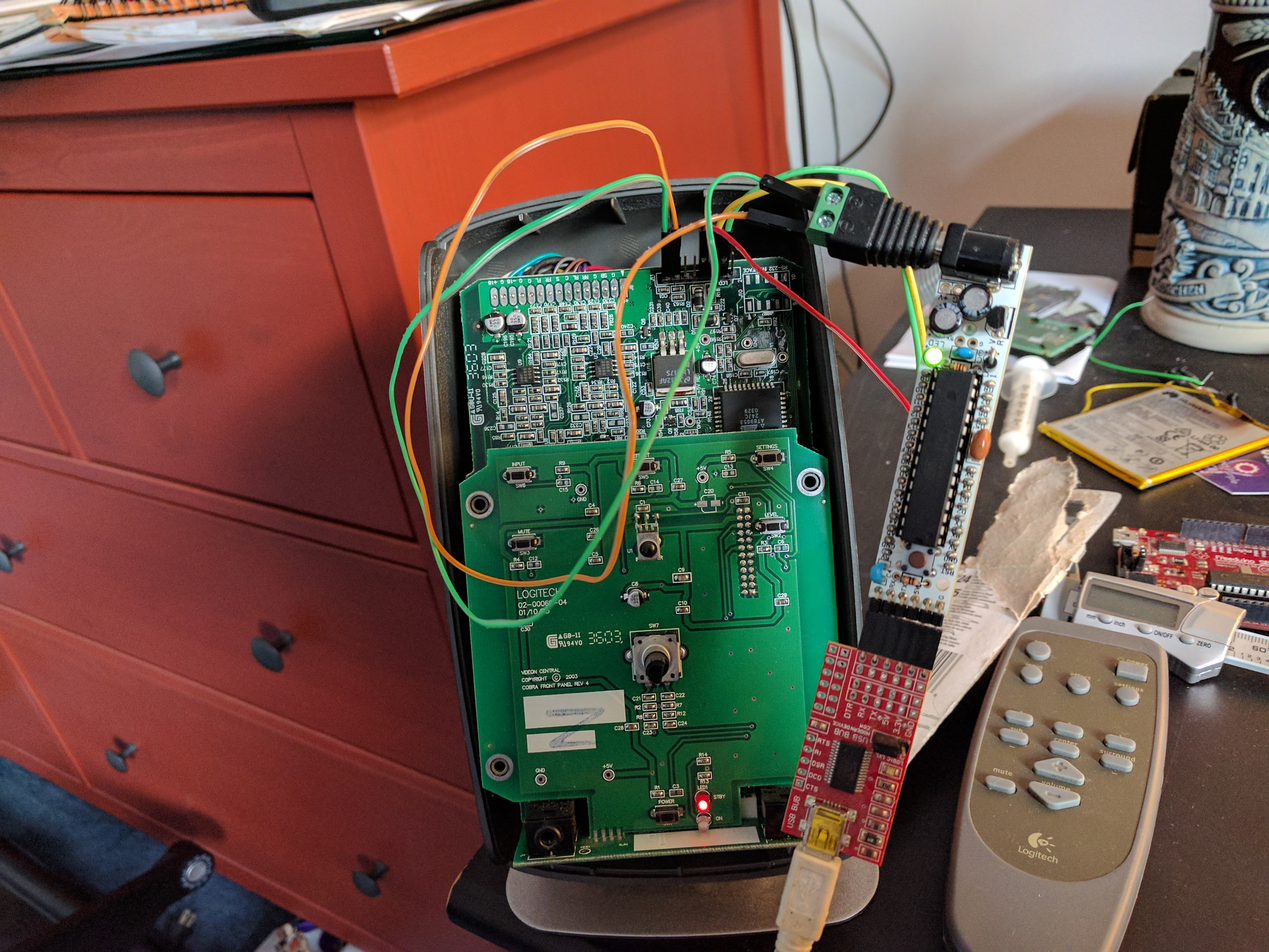
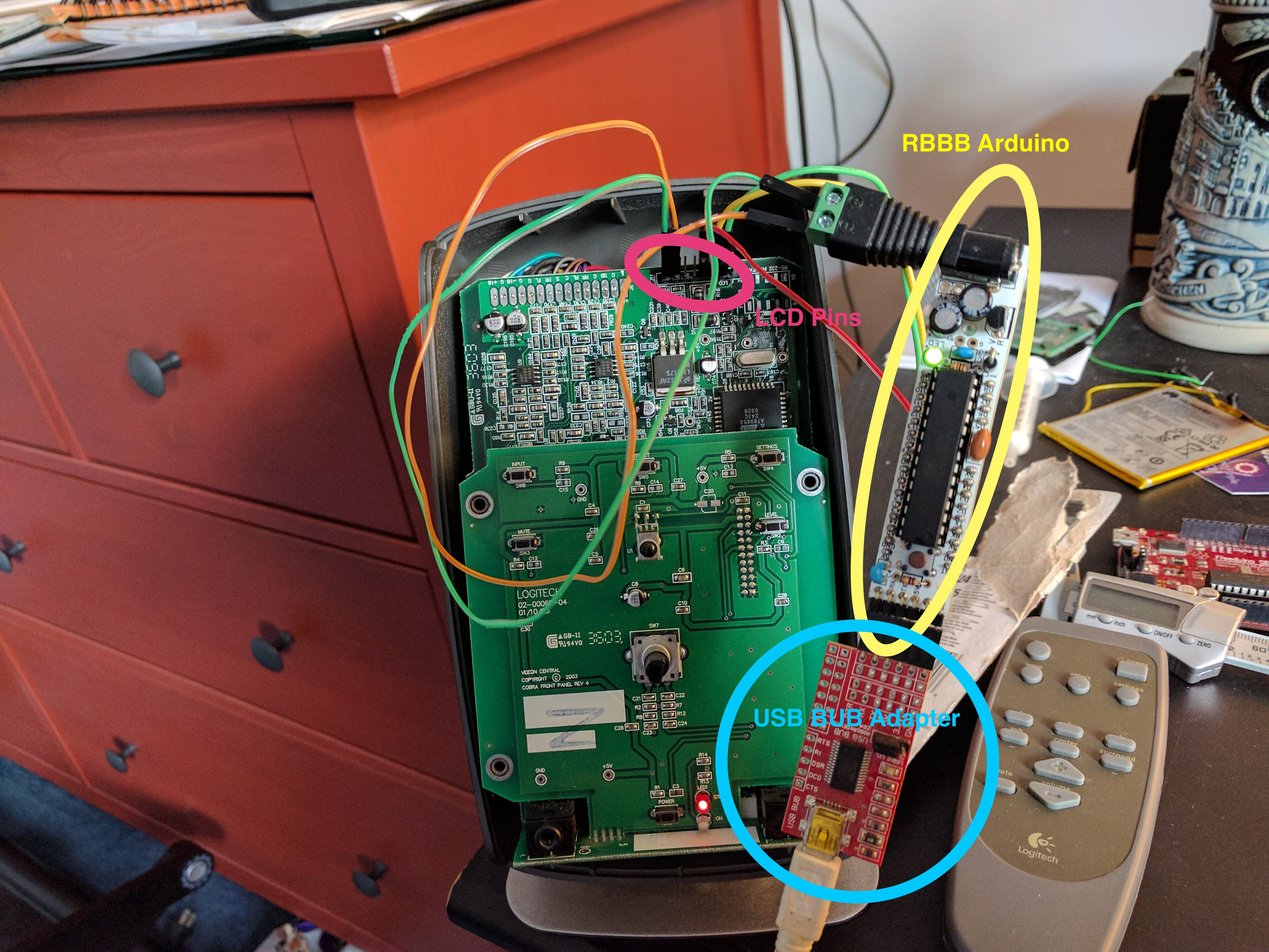
Completed blog post. Now needs to be read, edited, and published.

Changed region(s): [[0.5625, 0.2176, 0.8438, 0.9636], [0.4688, 0.1243, 0.8438, 0.4663], [0.7188, 0.9015, 0.75, 0.9325]]

diff --git a/_posts/2017-09-04-reverse-engineering-logitech-z680-lcd.md b/_posts/2017-09-04-reverse-engineering-logitech-z680-lcd.md
@@ -20,6 +20,12 @@ galleries:
         caption: "The LCD uses an 8-pin ribbon cable, which I didn't expect."
       - url: "z680-connections-2.jpg"
         caption: "This is the connector on the control pod's main board. The mounted it at an usual angle, probably to fit the LCD module right on top of it. On the left you can see the wires coming from the amp/sub via the d-sub connector."
+  z680-arduino-serial:
+    pictures:
+      - url: "z680-arduino-serial-1.gif"
+        caption: "It's really fun to see what should be on the internal LCD showing up on my Mac's terminal, instead."
+      - url: "z680-arduino-serial-2.gif"
+        caption: "I can send over commands to hide the cursor, so it looks even better on my Mac. However, I cannot create custom characters, so the volume controls don't look perfect on the PC terminal."
 ---
 I'm not ready to give up on these speakers just yet. They sound great, but the control LCD is messed up. I wonder if I can get it working even better than before. I ended up reverse engineering some mysterious components, and hopefully my experience can teach you a thing or two about the process.
 
@@ -158,6 +164,8 @@ When we decode everything properly, `D` is `44` and `E` is `45`. It's all ASCII!
 * The second low nybble is the high nybble of the "Actual" data.
 * Command `08` is supposed to move the cursor to position 0 of DDRAM, but it actually moves to position 0 of CGRAM.
 
+{% include image.md image_url="/img/2017/09/z680-bytes-nybbles.png" %}
+
 #### Replacement plan
 We know pretty much everything about how this LCD and control pod communicate. After searching around, I could not find any serial character LCDs which use the same protocol, which means a simple replacement is impossible.
 
@@ -166,9 +174,26 @@ I'm still going to replace it, but with a parallel character LCD. I'll need to m
 #### Arduino
 A few years back I picked up a bunch of [RBBB Arduinos](https://moderndevice.com/product/rbbb-kit/). They're great as cheap, fully-featured, and *tiny* Arduino-compatible systems. They do not have a USB UART on-board, to save money, but a single [USB BUB](https://moderndevice.com/product/usb-bub-ii/) adapter can be used for both programming and Arduino <-> PC serial communication.
 
+{% include image.md image_url="/img/2017/09/z680-arduino-connections.jpg" %}
 
+The RBBB can be cut down a lot, so it should be small enough to fit inside the control pod, along with a replacement LCD module. The broken LCD is very thick, so hopefully we'll figure out a better way of using the available space. I set it up as follows:
+
+* Control Pod Pin 1 (Vcc) to RBBB 5V Input
+* Control Pod Pin 2 (GND) to RBBB GND
+* Control Pod Pin 4 (CS) to RBBB Slave Select (SS)
+* Control Pod Pin 5 (MOSI) to RBBB MOSI
+* Control Pod Pin 6 (CLK) to RBBB SCLK
+
+I have the Arduino converting the [hd44780 cursor movement codes](http://www.dinceraydin.com/lcd/commands.htm) into [ANSI terminal codes](http://ascii-table.com/ansi-escape-sequences.php). This can work very well, but it means that we can't use the standard Arduino serial console. Instead we have to connect with a terminal program, using a command like `screen /dev/cu.arduinoserial 115200`.
+
+{% include gallery.html gallery_id="z680-arduino-serial" %}
 
 #### Next steps & code
+Code for this project is available as a [GitHub repository](https://github.com/smartperson/Logitech-Z680-LCD-Translator). I'll add a README shortly.
+
+This has been a blast to reverse engineer; we have figured everything out about this LCD system, and we can replace it with whatever we want.
+
+The plan is to get the Arduino working reliably with a parallel character LCD, then somehow fit it all inside the control pod. I'm looking at 2x20 displays to find one that will fit and work well. I think I'll try and find an OLED; I'm tired of backlights, and OLED feels more like the VFDs of old.
 
 #### Who's Varun?
 
